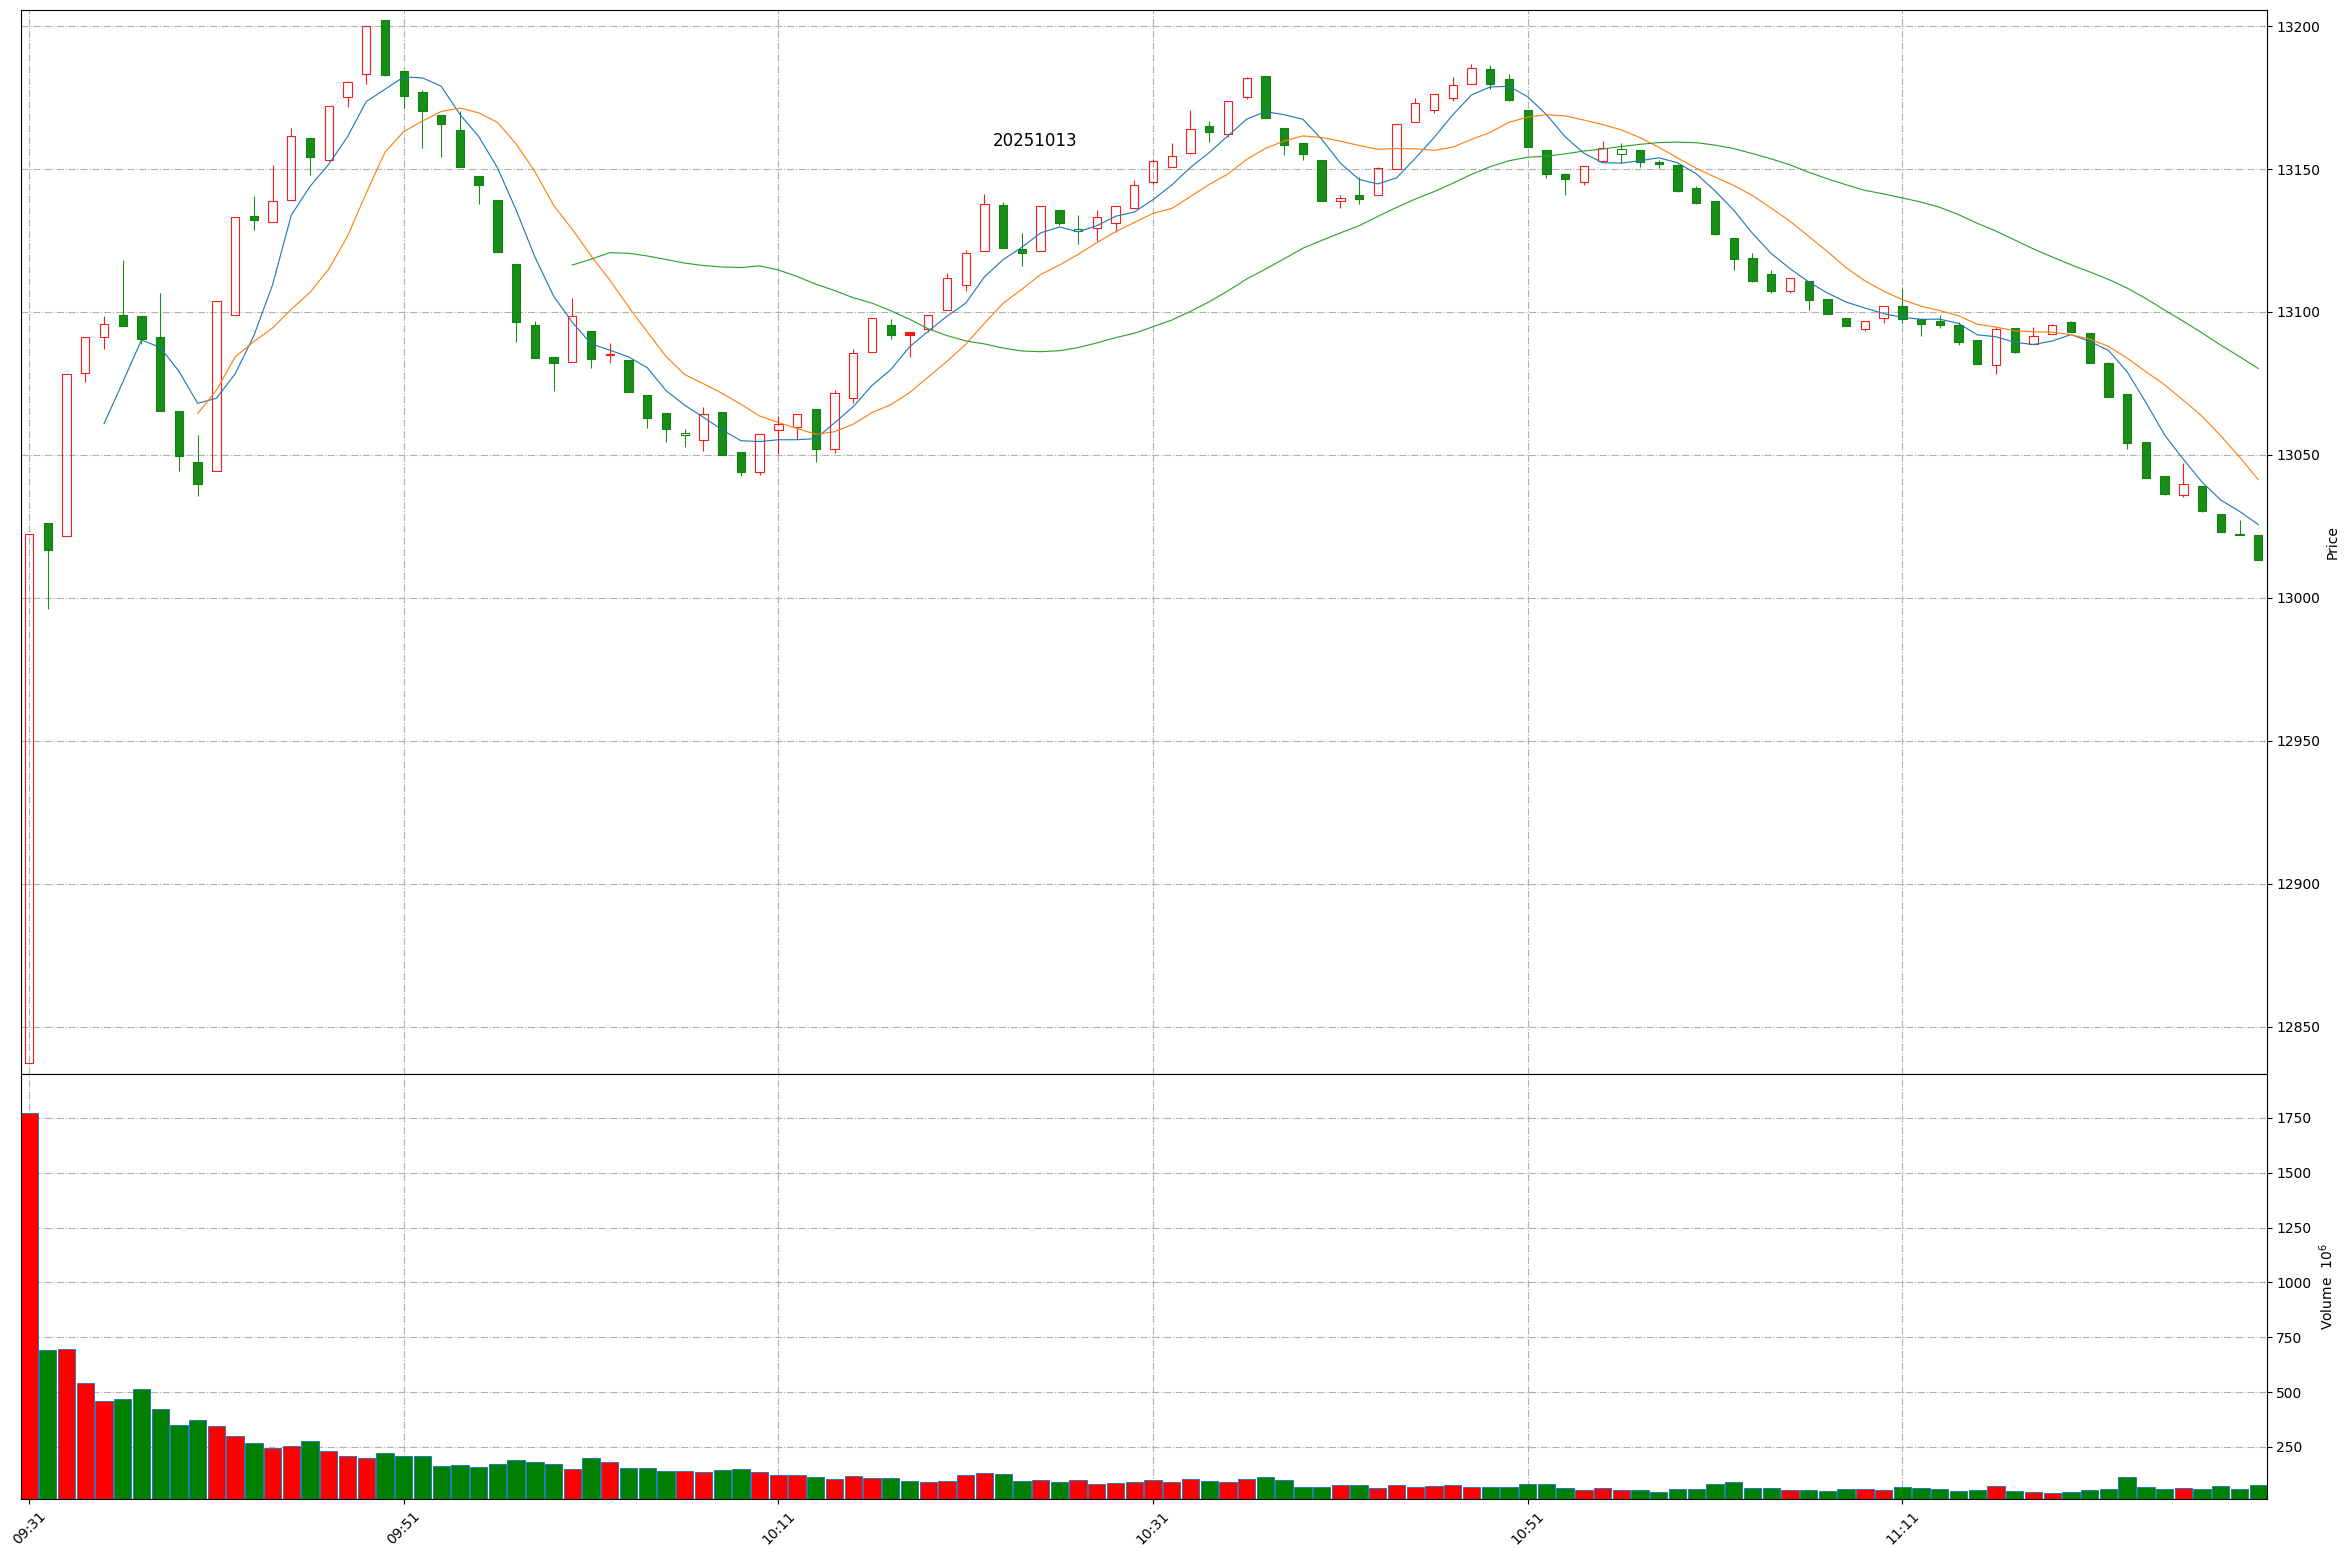
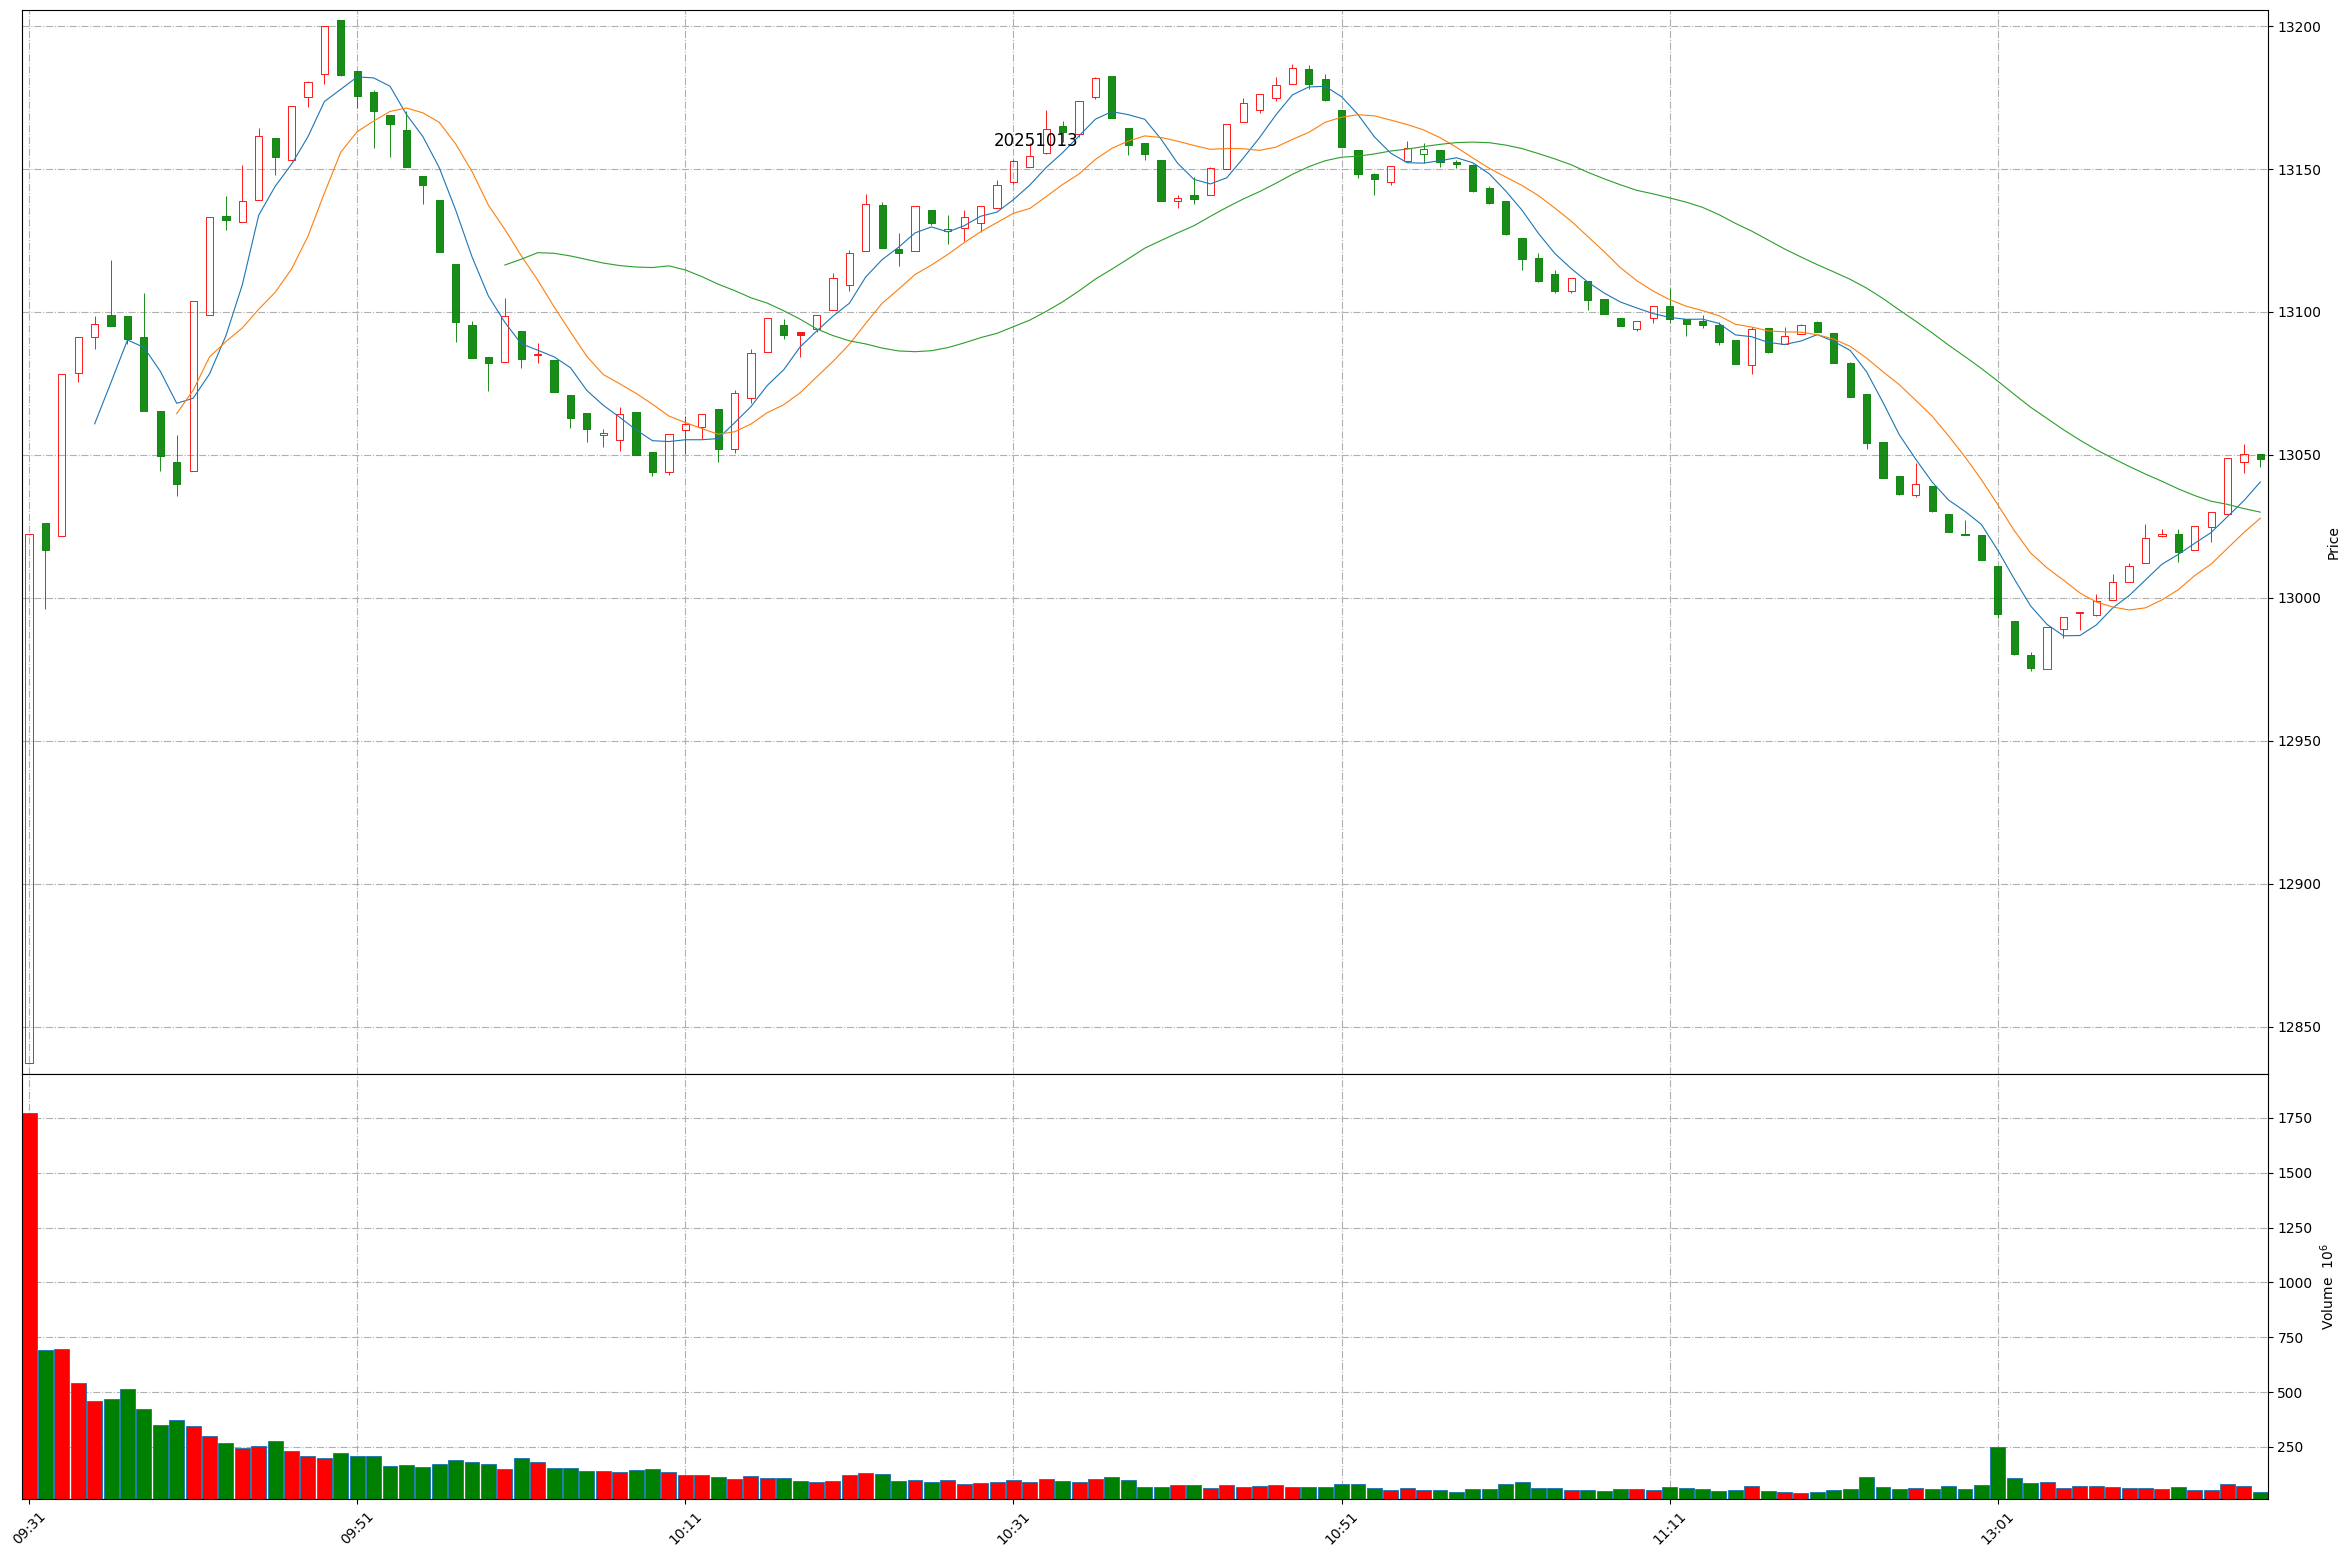
Github action update at 2025-10-13 13:16:48.

diff --git a/README.md b/README.md
@@ -1,11 +1,11 @@
 
 # Daily-A-share-market-quotes 每日 A 股指数（5min 更新）- 20251013
 
-### 上证指数 20251013 11:53
+### 上证指数 20251013 13:16
 ![](./fig/2025/10/20251013-sh000001.png)
 
-### 深证成指 20251013 11:53
+### 深证成指 20251013 13:16
 ![](./fig/2025/10/20251013-sz399001.png)
 
-### 北证50 20251013 11:53
+### 北证50 20251013 13:16
 ![](./fig/2025/10/20251013-bj899050.png)
